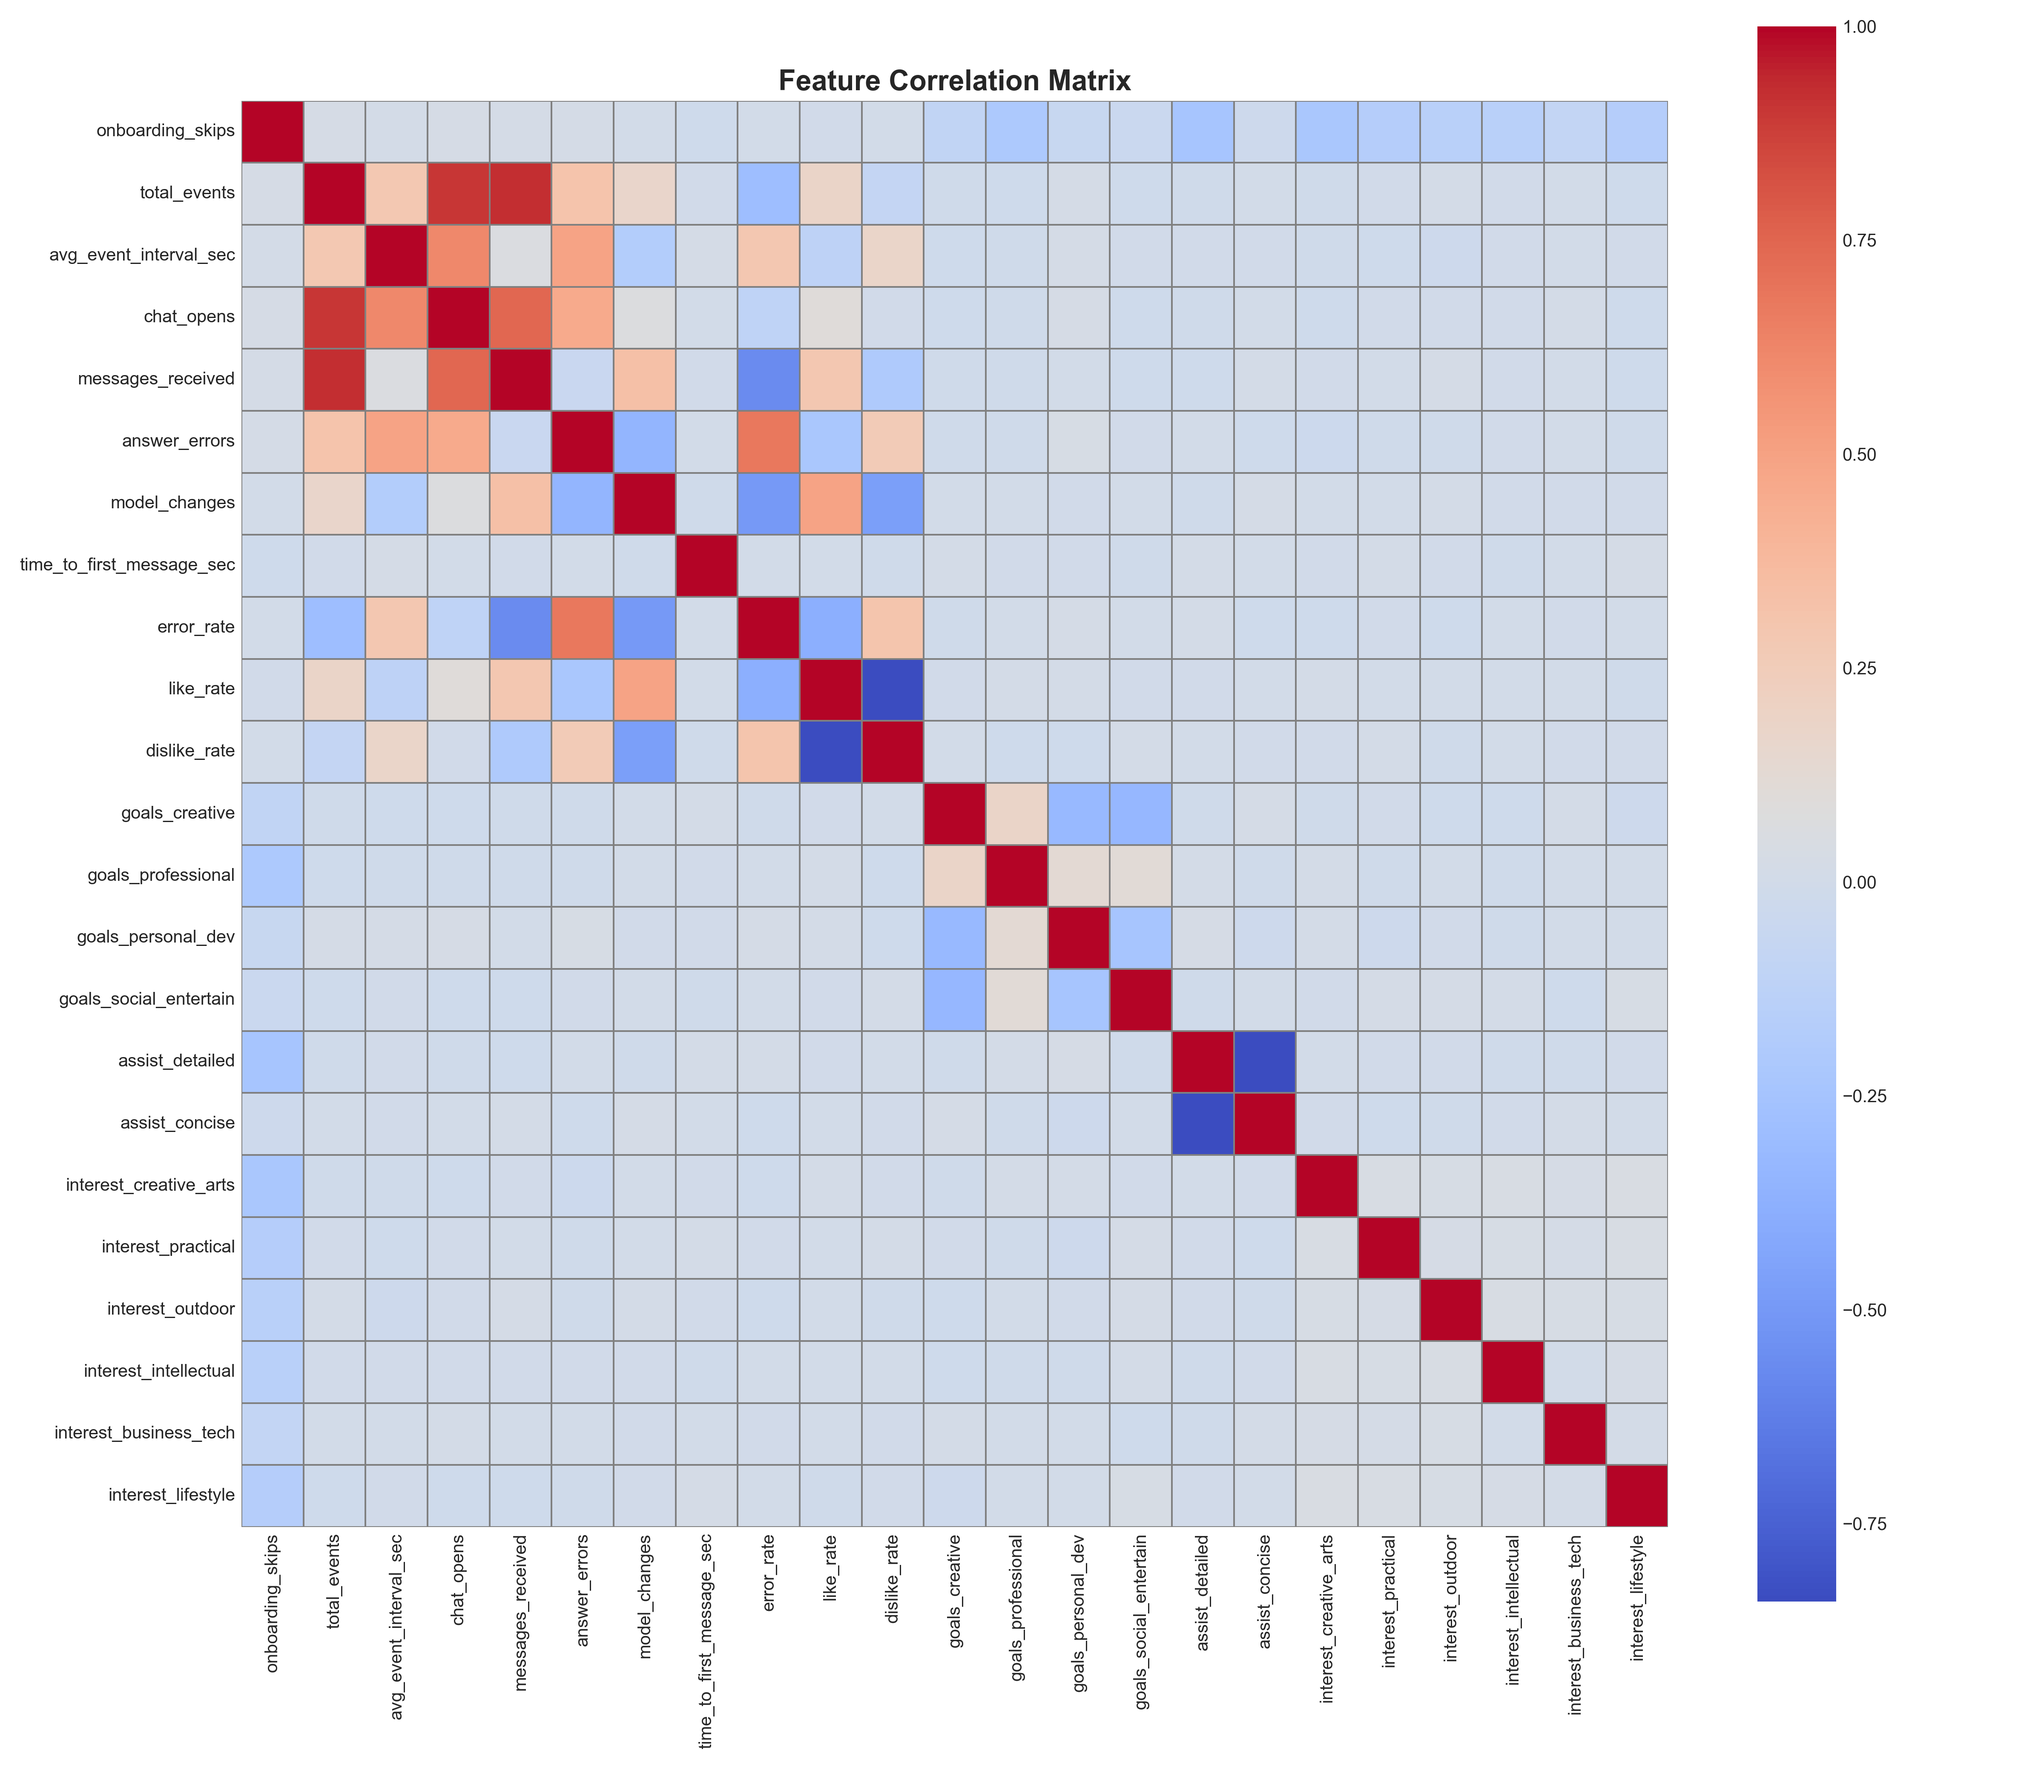
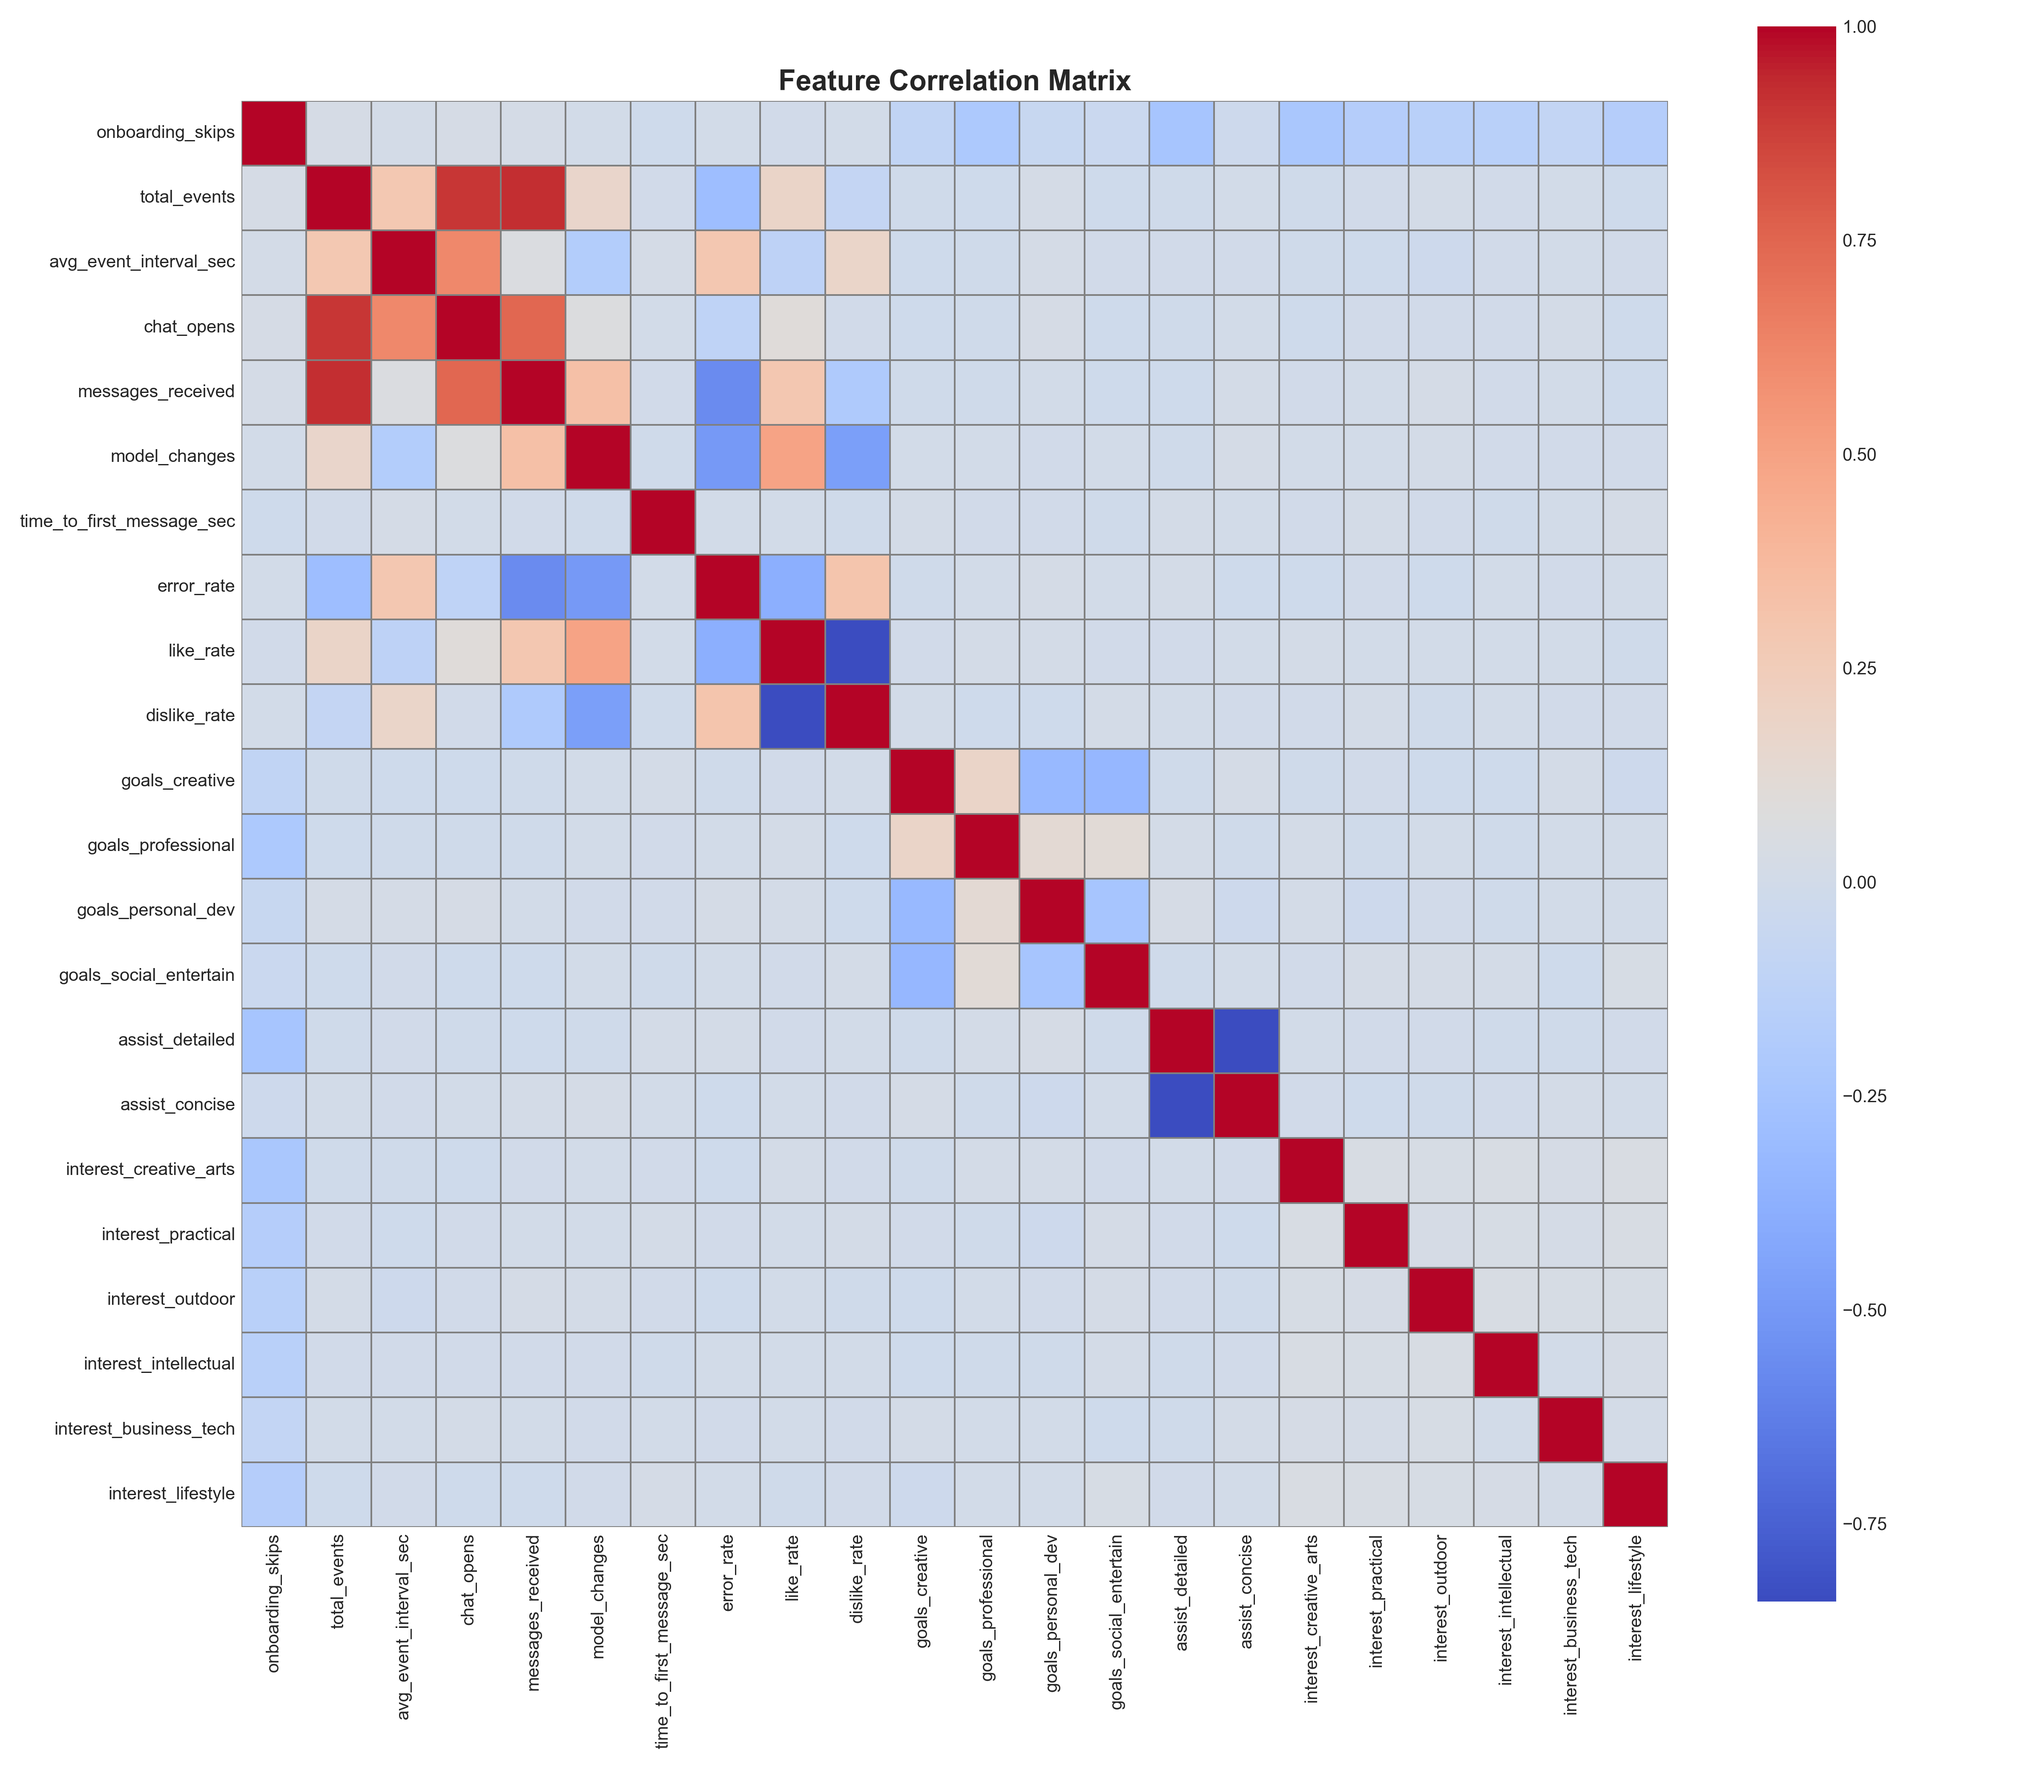
renove answer_errors

diff --git a/prediction/ChurnPredictionModel.py b/prediction/ChurnPredictionModel.py
@@ -70,6 +70,7 @@ class ChurnPredictionModel:
 
             # Видалення колонки successful_purchase (більше не потрібна)
             self.df_processed.drop(columns=['successful_purchase'], inplace=True)
+            self.df_processed.drop(columns=['answer_errors'], inplace=True)
             print(f"✓ Видалено колонку 'successful_purchase' (всі значення = 1)")
         else:
             print("⚠  Колонка 'successful_purchase' не знайдена, пропускаємо фільтрацію")
